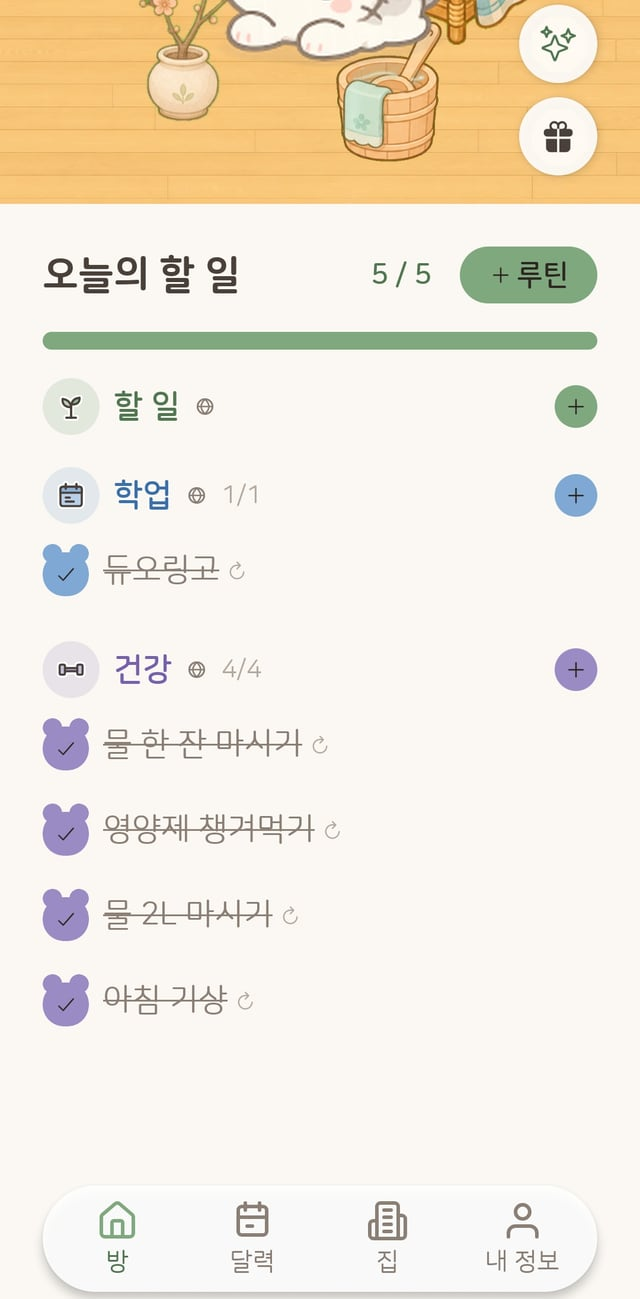
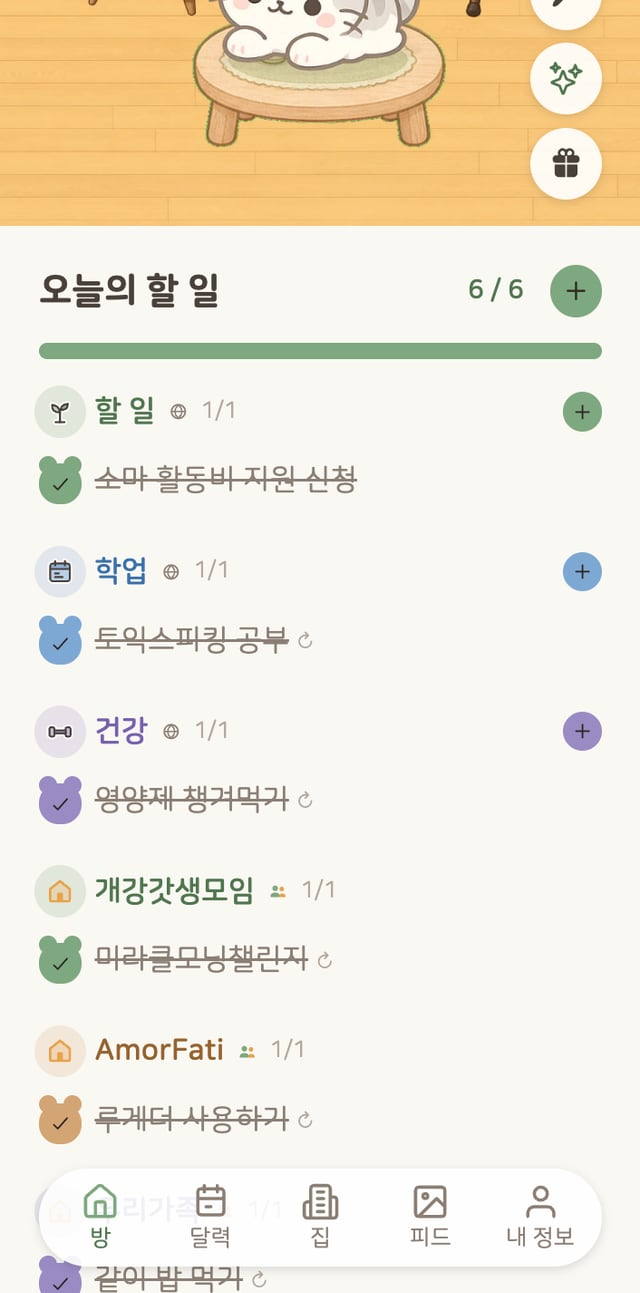
fix: 랜딩 본문 대비·한글 줄바꿈·탭 영역, 앱 화면 5장 최신화 (#75)
* fix: 랜딩 본문 대비·한글 줄바꿈·탭 영역, 앱 화면 5장 최신화

- --text-muted #8B7E74 → #6A5D54(3.7:1 → 크림·연두·베이지 모두 4.5:1 이상), --primary-text #517751 → #4A6E4A(연두 배경 4.06 → 4.61:1)
- 기능 소개·마지막 문구에 word-break: keep-all — "이야/기하고"처럼 단어가 쪼개지던 것
- 휴대폰 탭 영역: 언어 선택 38 → 44px, "웹으로 시작하기" 링크는 보이는 모양 그대로 탭 영역만 확장
- 한국어 앱 화면 5장(방·집·꾸미기·할 일·달력)을 11/9 웹앱 캡처로 교체, alt 갱신
- 달력 달성 동그라미는 앱에서 9/10(#1280) 빠졌는데 랜딩 문구·FAQ에 남아 있던 것을 실제 동작으로 수정(영문 포함)

* fix: 집 화면 사진을 가족 집으로 — 다른 구성원 닉네임 노출 최소화

---------

Changed region(s): [[0.0, 0.0, 1.0, 0.5259], [0.0625, 0.5568, 0.9375, 1.0], [0.8438, 0.495, 0.9375, 0.5878]]

diff --git a/src/i18n/index.ts b/src/i18n/index.ts
@@ -41,14 +41,14 @@ const ko: Dict = {
     lead: '서로의 방에 놀러 가고, 응원하고, 같이 미션을 채우는 루틴·할 일 앱, 루게더.',
     webLink: 'PC에서 설치 없이 웹으로 시작하기 →',
     scrollHint: '스크롤해서 더 알아보기',
-    heroAlt: '루게더 내 방 화면 — 구름 벽지 방에서 쉬는 고양이 캐릭터와 오늘의 할 일',
+    heroAlt: '루게더 내 방 화면 — 레코드플레이어와 기타가 놓인 방에서 쉬는 고양이 캐릭터와 오늘의 할 일',
   },
   // 카피·캡처는 App Store 스크린샷(2026-09)과 동일 — 스토어에서 본 앱을 랜딩에서 그대로 만나게
   tour: [
-    { title: ['친구들과 한 집에서', '함께 쌓는 루틴'], desc: '초대코드로 모인 친구들의 방이 한 집에 — 채팅으로 이야기하고, 응원을 보내고, 같이 지킨 루틴이 집 레벨을 올려요', alt: '집 화면 — 구름 위 집에 모인 방들, 집 레벨·멤버와 목표·집 탐색·집 관리 버튼' },
-    { title: ['친구가 놀러 오는', '내 취향의 방'], desc: '루틴으로 모은 코인으로 가구·소품·벽지·바닥을 골라 꾸미면, 친구들이 놀러 와 구경하고 방명록을 남겨요', alt: '방 꾸미기 화면 — 가구·소품·벽지·바닥 탭과 적용하기' },
-    { title: ['매일의 할 일은', '가볍게 체크'], desc: '학업·건강처럼 카테고리로 묶고, 오늘 몇 개 해냈는지 한눈에 봐요', alt: '오늘의 할 일 화면 — 할 일·학업·건강 카테고리와 곰 체크' },
-    { title: ['차곡차곡 쌓인 하루', '달력에서 한눈에'], desc: '해낸 날엔 달력에 동그라미가 그려지고, 루틴·할 일별로 골라 볼 수 있어요', alt: '달력 화면 — 완료한 날에 동그라미가 표시된 9월 달력과 그날의 할 일' },
+    { title: ['친구들과 한 집에서', '함께 쌓는 루틴'], desc: '초대코드로 모인 친구들의 방이 한 집에 — 채팅으로 이야기하고, 응원을 보내고, 같이 지킨 루틴이 집 레벨을 올려요', alt: '집 화면 — 천문대 지붕 집에 모인 가족의 방, 집 레벨·목표·멤버와 채팅·집 탐색 버튼' },
+    { title: ['친구가 놀러 오는', '내 취향의 방'], desc: '루틴으로 모은 코인으로 가구·소품·벽지·바닥을 골라 꾸미면, 친구들이 놀러 와 구경하고 방명록을 남겨요', alt: '방 꾸미기 화면 — 가구·소품·벽지·바닥·AI 가구 탭과 적용하기' },
+    { title: ['매일의 할 일은', '가볍게 체크'], desc: '학업·건강처럼 카테고리로 묶고, 오늘 몇 개 해냈는지 한눈에 봐요', alt: '오늘의 할 일 화면 — 할 일·학업·건강과 집 카테고리, 곰 체크' },
+    { title: ['차곡차곡 쌓인 하루', '달력에서 한눈에'], desc: '날짜를 누르면 그날의 루틴·할 일이 펼쳐지고, 루틴·할 일별로 골라 볼 수 있어요', alt: '달력 화면 — 11월 달력과 오늘의 루틴·할 일' },
   ],
   web: {
     eyebrow: '웹에서도',
@@ -75,7 +75,7 @@ const ko: Dict = {
       },
       { q: 'PC에서도 쓸 수 있나요?', a: '네. 브라우저에서 app.rougether.com 을 열고 같은 계정으로 로그인하면 내 방과 할 일이 그대로예요. 자주 쓰면 브라우저의 설치(홈 화면에 추가) 기능으로 앱처럼 둘 수 있어요.' },
       { q: '친구랑 어떻게 같이 쓰나요?', a: '집을 만들고 초대코드를 공유하면 친구가 같은 집에 들어올 수 있어요. iPhone 친구와 안드로이드 친구가 한 집에 모여도 돼요. 집 채팅, 방 구경, 방명록, 응원 보내기, 공동 미션으로 집이 함께 자라요. 집은 여러 개에 참여할 수 있어요.' },
-      { q: '습관 만들기에 어떻게 도움이 되나요?', a: '작심삼일이 되지 않게 매일 체크한 기록이 스트릭으로 이어지고, 해낸 날엔 달력에 동그라미가 그려져요. 친구들과 한 집에 모이면 서로 방을 구경하고 응원을 보내며 공동 미션을 함께 채워서, 혼자보다 오래 가는 습관을 만들 수 있어요.' },
+      { q: '습관 만들기에 어떻게 도움이 되나요?', a: '작심삼일이 되지 않게 매일 체크한 기록이 스트릭으로 이어지고, 지난 날의 기록도 달력에서 다시 볼 수 있어요. 친구들과 한 집에 모이면 서로 방을 구경하고 응원을 보내며 공동 미션을 함께 채워서, 혼자보다 오래 가는 습관을 만들 수 있어요.' },
       { q: '루틴을 지키면 뭐가 생기나요?', a: '완료할 때마다 코인과 스트릭이 쌓이고, 모은 보상으로 방을 꾸미거나 뽑기에서 캐릭터·가구를 얻을 수 있어요.' },
       {
         q: '문의나 버그 제보는 어디로 하나요?',
@@ -114,7 +114,7 @@ const en: Dict = {
     { title: ['One house with friends,', 'routines you build together'], desc: 'Friends join with an invite code — chat, send cheers, and the routines you keep together level up the house', alt: 'House screen — rooms gathered in a house above the clouds, with house level, members and goal, explore and manage buttons' },
     { title: ['A room in your taste,', 'for friends to visit'], desc: 'Spend the coins from your routines on furniture, décor, wallpaper and floors — friends drop by and leave a note in your guestbook', alt: 'Room decorating screen — furniture, décor, wallpaper and floor tabs with an apply button' },
     { title: ['Check off the day’s to-dos', 'with a light touch'], desc: 'Group them by category, like study or health, and see how many you’ve done today at a glance', alt: 'Today’s to-dos screen — to-do, study and health categories with bear check marks' },
-    { title: ['Every day, stacked up,', 'at a glance on the calendar'], desc: 'Days you get things done are circled on the calendar, and you can filter by routines or to-dos', alt: 'Calendar screen — a September calendar with completed days circled and that day’s to-dos' },
+    { title: ['Every day, stacked up,', 'at a glance on the calendar'], desc: 'Tap a day to see its routines and to-dos, and filter by routines or to-dos', alt: 'Calendar screen — a September calendar and that day’s to-dos' },
   ],
   web: {
     eyebrow: 'ALSO ON THE WEB',

diff --git a/src/styles/landing.css b/src/styles/landing.css
@@ -37,6 +37,7 @@ header {
 .lang summary {
   list-style: none; cursor: pointer; display: flex; align-items: center; gap: 6px;
   padding: 6px 10px; border: 1px solid var(--border); border-radius: 999px; font-size: 14px; color: var(--text); background: var(--surface);
+  min-height: 44px; box-sizing: border-box; /* 휴대폰 탭 영역 44px */
 }
 .lang summary::-webkit-details-marker { display: none; }
 .lang summary:hover { border-color: var(--text-muted); }
@@ -136,7 +137,7 @@ section.tour { padding: 48px 0 40px; }
 }
 .tour-row h2 { font-size: clamp(27px, 4.4vw, 38px); line-height: 1.4; letter-spacing: -0.3px; }
 .tour-row h2 .accent { color: var(--primary-text); }
-.tour-row p { margin-top: 14px; font-size: clamp(16px, 2.5vw, 18px); color: var(--text-muted); }
+.tour-row p { margin-top: 14px; font-size: clamp(16px, 2.5vw, 18px); color: var(--text-muted); word-break: keep-all; }
 @media (max-width: 760px) {
   .tour-row, .tour-row:nth-child(even) { flex-direction: column; }
   .tour-row .text { text-align: center; max-width: 480px; }
@@ -145,7 +146,9 @@ section.tour { padding: 48px 0 40px; }
 /* FAQ — 코지 카드 아코디언 */
 /* 웹앱 진입 섹션 — 스토어 배지와 위계를 나누려 초록 버튼 대신 텍스트색 아웃라인. */
 .hero .web-link { margin-top: 14px; font-size: 15px; }
-.hero .web-link a { color: var(--primary-text); text-decoration: none; border-bottom: 1px solid var(--primary-soft); }
+.hero .web-link a { position: relative; color: var(--primary-text); text-decoration: none; border-bottom: 1px solid var(--primary-soft); }
+/* 글자 높이 18px짜리 링크의 탭 영역을 위아래로 넓힌다(보이는 모양은 그대로). */
+.hero .web-link a::after { content: ""; position: absolute; inset: -13px -6px; }
 .hero .web-link a:hover { border-bottom-color: var(--primary-text); }
 section.web { padding: 72px 0; background: var(--store-sage); text-align: center; }
 section.web .eyebrow { font-size: 14px; font-weight: 700; letter-spacing: .08em; color: var(--primary-text); }
@@ -200,7 +203,7 @@ section.closing {
   padding: 104px 0 112px; text-align: center;
 }
 section.closing h2 { font-size: clamp(30px, 5.2vw, 44px); line-height: 1.35; letter-spacing: -0.4px; }
-section.closing p { margin: 16px auto 0; max-width: 520px; font-size: clamp(16px, 2.4vw, 19px); color: var(--text-muted); }
+section.closing p { margin: 16px auto 0; max-width: 520px; font-size: clamp(16px, 2.4vw, 19px); color: var(--text-muted); word-break: keep-all; }
 section.closing .badges { margin-top: 34px; display: flex; gap: 12px; justify-content: center; flex-wrap: wrap; }
 
 /* 모션 — 스크롤 리빌 + 히어로 플로팅 (roubit.me 참고). JS 실패·축소 모션

diff --git a/src/styles/tokens.css b/src/styles/tokens.css
@@ -7,10 +7,10 @@
   --surface-muted: #F5F1E8;
   --border: #E8DCC8;
   --text: #4A403A;
-  --text-muted: #8B7E74;
+  --text-muted: #6A5D54; /* 크림·연두·베이지 배경 모두 4.5:1 이상(본문 대비 기준) */
   --primary: #7FA87F;
   --primary-active: #6D926D;
-  --primary-text: #517751;
+  --primary-text: #4A6E4A; /* 연두 배경(#E1E8D2)에서도 4.5:1 이상 */
   --primary-soft: #7FA87F22;
   --warning: #E8A24A;
   --warning-text: #9D6014;
